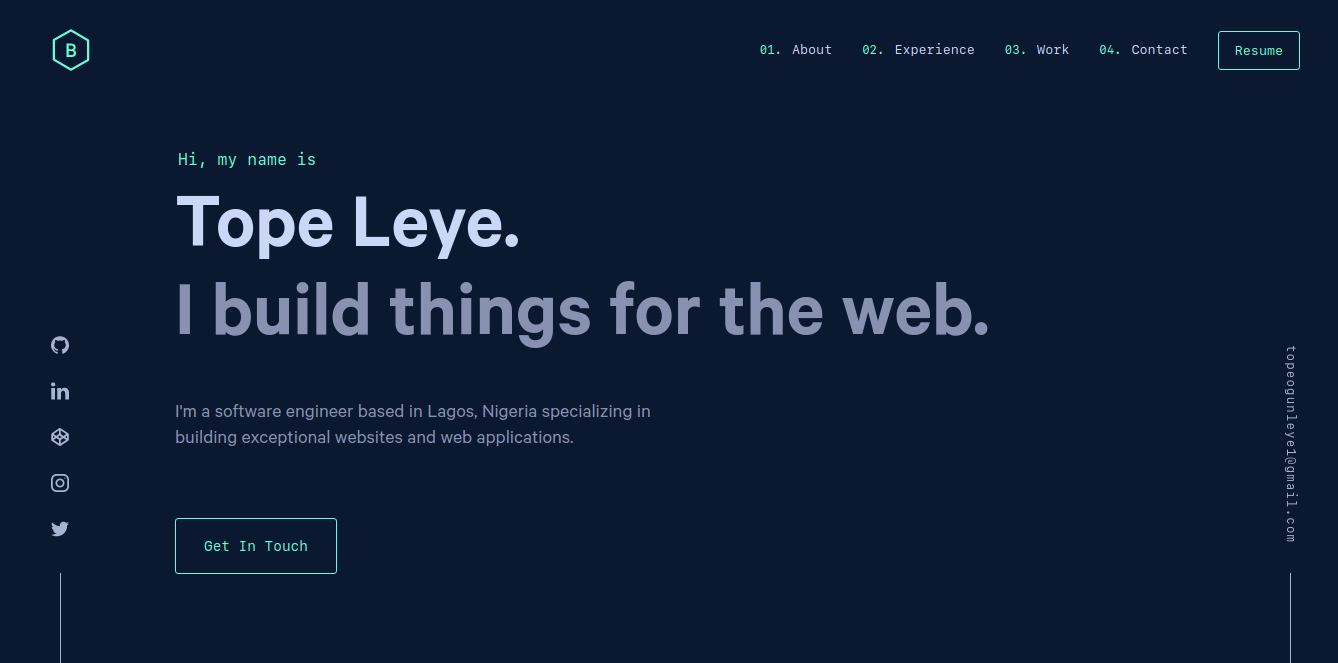
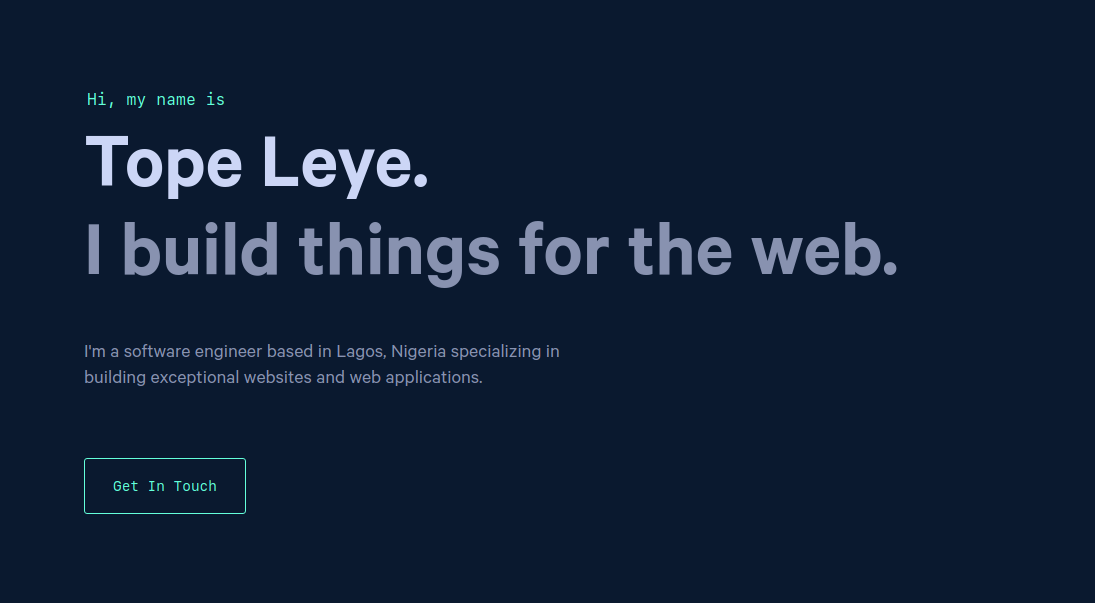
Adds og.png

diff --git a/src/components/head.js b/src/components/head.js
@@ -37,7 +37,7 @@ const Head = ({ metadata }) => (
     <meta property="og:url" content={metadata.siteUrl} />
     <meta property="og:site_name" content={metadata.title} />
     <meta property="og:image" content={`${config.siteUrl}${ogImage}`} />
-    <meta property="og:image:width" content="1200" />
+    <meta property="og:image:width" content="1090" />
     <meta property="og:image:height" content="600" />
     <meta property="og:image:type" content="image/png" />
     <meta property="og:locale" content={config.siteLanguage} />
